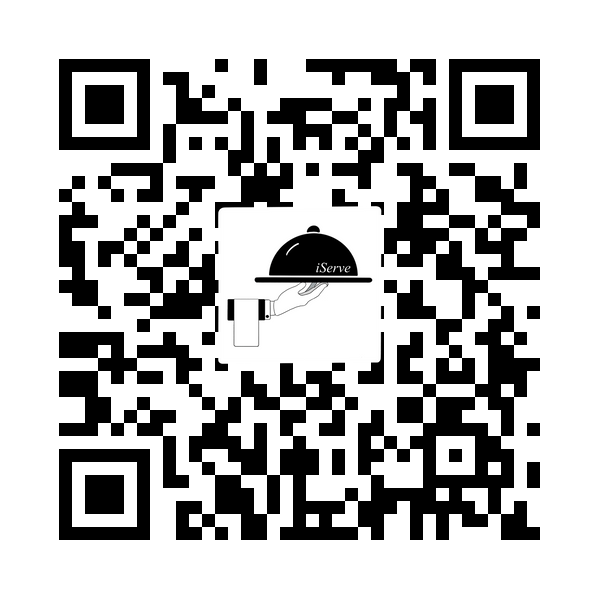
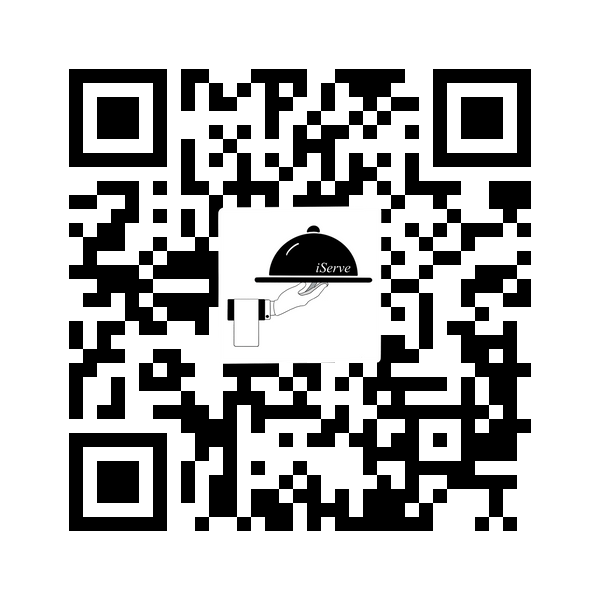
add findBillStatus method + endpoint + test + add qrcode frontend url suffix from properties

diff --git a/src/test/java/com/controller/BillControllerTests.java b/src/test/java/com/controller/BillControllerTests.java
@@ -3,13 +3,12 @@ package com.controller;
 import com.fasterxml.jackson.databind.ObjectMapper;
 import com.fasterxml.jackson.datatype.jsr310.JavaTimeModule;
 import com.model.dto.*;
-import org.json.JSONException;
+import com.model.enums.BillStatus;
 import org.json.JSONObject;
 import org.junit.jupiter.api.Test;
 import org.springframework.beans.factory.annotation.Autowired;
 import org.springframework.boot.test.context.SpringBootTest;
 import org.springframework.http.MediaType;
-import org.springframework.test.context.ActiveProfiles;
 import org.springframework.test.web.servlet.MockMvc;
 import org.springframework.test.web.servlet.MvcResult;
 import org.springframework.test.web.servlet.request.MockMvcRequestBuilders;
@@ -21,11 +20,12 @@ import java.util.List;
 
 import static org.junit.jupiter.api.Assertions.*;
 import static org.springframework.test.web.servlet.result.MockMvcResultMatchers.status;
+
 // TODO: all test should include assert arrange act as comments so its easier to understand code
 @SpringBootTest
 class BillControllerTests {
     @Autowired
-    BillController billController;
+    private BillController billController;
 
     @Test
     void contextLoads() {
@@ -56,15 +56,16 @@ class BillControllerTests {
         mapper.registerModule(new JavaTimeModule());
         BillDTO reponse = mapper.readValue(result.getResponse().getContentAsString(), BillDTO.class);
 
-        assertEquals(1,reponse.getOrderItems().get(0).getOption().size());
-        assertEquals("po de bacon po de bacon po de bacon",reponse.getOrderItems().get(0).getCommentaires());
-        assertEquals(1,reponse.getOrderItems().get(0).getOption().get(0).getCheckItemList().size());
+        assertEquals(1, reponse.getOrderItems().get(0).getOption().size());
+        assertEquals("po de bacon po de bacon po de bacon", reponse.getOrderItems().get(0).getCommentaires());
+        assertEquals(1, reponse.getOrderItems().get(0).getOption().get(0).getCheckItemList().size());
         assertTrue(reponse.getOrderItems().get(0).getOption().get(0).getCheckItemList().get(0).isActive());
         assertEquals(29.99, reponse.getPrixTotal());
         assertEquals("le steak chico", reponse.getOrderItems().get(0).getProduct().getName());
         assertEquals(1, reponse.getOrderItems().size());
         assertEquals("guest@mail.com", reponse.getOrderCustomer().getUsername());
     }
+
     @Test
     public void testCreateMakeOrderWithOrderItemCheckItemPlus() throws Exception {
         MockMvc mvc = initMockMvc();
@@ -90,15 +91,16 @@ class BillControllerTests {
         mapper.registerModule(new JavaTimeModule());
         BillDTO reponse = mapper.readValue(result.getResponse().getContentAsString(), BillDTO.class);
 
-        assertEquals(1,reponse.getOrderItems().get(0).getOption().size());
-        assertEquals("po de bacon po de bacon po de bacon",reponse.getOrderItems().get(0).getCommentaires());
-        assertEquals(1,reponse.getOrderItems().get(0).getOption().get(0).getCheckItemList().size());
+        assertEquals(1, reponse.getOrderItems().get(0).getOption().size());
+        assertEquals("po de bacon po de bacon po de bacon", reponse.getOrderItems().get(0).getCommentaires());
+        assertEquals(1, reponse.getOrderItems().get(0).getOption().get(0).getCheckItemList().size());
         assertTrue(reponse.getOrderItems().get(0).getOption().get(0).getCheckItemList().get(0).isActive());
         assertEquals(34.99, reponse.getPrixTotal());
         assertEquals("le steak chico", reponse.getOrderItems().get(0).getProduct().getName());
         assertEquals(1, reponse.getOrderItems().size());
         assertEquals("guest@mail.com", reponse.getOrderCustomer().getUsername());
     }
+
     @Test
     public void testCreateMakeOrderWithCheckItemAddOn() throws Exception {
         MockMvc mvc = initMockMvc();
@@ -124,15 +126,16 @@ class BillControllerTests {
         mapper.registerModule(new JavaTimeModule());
         BillDTO reponse = mapper.readValue(result.getResponse().getContentAsString(), BillDTO.class);
 
-        assertEquals(1,reponse.getOrderItems().get(0).getOption().size());
-        assertEquals("po de bacon po de bacon po de bacon",reponse.getOrderItems().get(0).getCommentaires());
-        assertEquals(1,reponse.getOrderItems().get(0).getOption().get(0).getCheckItemList().size());
+        assertEquals(1, reponse.getOrderItems().get(0).getOption().size());
+        assertEquals("po de bacon po de bacon po de bacon", reponse.getOrderItems().get(0).getCommentaires());
+        assertEquals(1, reponse.getOrderItems().get(0).getOption().get(0).getCheckItemList().size());
         assertTrue(reponse.getOrderItems().get(0).getOption().get(0).getCheckItemList().get(0).isActive());
         assertEquals(32.49, reponse.getPrixTotal());
         assertEquals("le steak chico", reponse.getOrderItems().get(0).getProduct().getName());
         assertEquals(1, reponse.getOrderItems().size());
         assertEquals("guest@mail.com", reponse.getOrderCustomer().getUsername());
     }
+
     @Test
     public void initVoid() throws Exception {
         MockMvc mvc = initMockMvc();
@@ -145,9 +148,10 @@ class BillControllerTests {
                 andReturn();
         ObjectMapper mapper = new ObjectMapper();
         mapper.registerModule(new JavaTimeModule());
-        BillDTO response = mapper.readValue(result.getResponse().getContentAsString(),BillDTO.class);
+        BillDTO response = mapper.readValue(result.getResponse().getContentAsString(), BillDTO.class);
         assertNotNull(response.getId());
     }
+
     @Test
     public void fetchBillByIdGetRightBill() throws Exception {
         MockMvc mvc = initMockMvc();
@@ -163,10 +167,33 @@ class BillControllerTests {
                 andReturn();
         ObjectMapper mapper = new ObjectMapper();
         mapper.registerModule(new JavaTimeModule());
-        BillDTO response = mapper.readValue(result.getResponse().getContentAsString(),BillDTO.class);
-        assertEquals(1,response.getId());
+        BillDTO response = mapper.readValue(result.getResponse().getContentAsString(), BillDTO.class);
+        assertEquals(1, response.getId());
 
     }
+
+    @Test
+    public void findBillStatus() throws Exception {
+        // Arrange
+        MockMvc mvc = initMockMvc();
+        long billId = 1L;
+
+        ObjectMapper mapper = new ObjectMapper();
+        mapper.registerModule(new JavaTimeModule());
+
+        // Act
+        MvcResult result = mvc.perform(MockMvcRequestBuilders.get("/order/billStatus/" + billId).
+                contentType(MediaType.APPLICATION_JSON).
+                accept(MediaType.APPLICATION_JSON)).
+                andExpect(status().isOk()).
+                andReturn();
+
+        String status = mapper.readValue(result.getResponse().getContentAsString(), String.class);
+
+        // Assert
+        assertEquals(BillStatus.PROGRESS.toString(), status);
+    }
+
     @Test
     public void testCreateMakeOrderAddItemToBillByGuest() throws Exception {
         MockMvc mvc = initMockMvc();
@@ -214,9 +241,9 @@ class BillControllerTests {
         objectMapper.registerModule(new JavaTimeModule());
         reponse = objectMapper.readValue(result.getResponse().getContentAsString(), BillDTO.class);
 
-        assertEquals(1,reponse.getOrderItems().get(0).getOption().size());
-        assertEquals("po de bacon po de bacon po de bacon",reponse.getOrderItems().get(0).getCommentaires());
-        assertEquals(1,reponse.getOrderItems().get(0).getOption().get(0).getCheckItemList().size());
+        assertEquals(1, reponse.getOrderItems().get(0).getOption().size());
+        assertEquals("po de bacon po de bacon po de bacon", reponse.getOrderItems().get(0).getCommentaires());
+        assertEquals(1, reponse.getOrderItems().get(0).getOption().get(0).getCheckItemList().size());
         assertTrue(reponse.getOrderItems().get(0).getOption().get(0).getCheckItemList().get(0).isActive());
         assertEquals(59.98, reponse.getPrixTotal());
         assertEquals("le steak chico", reponse.getOrderItems().get(0).getProduct().getName());
@@ -317,9 +344,9 @@ class BillControllerTests {
         objectMapper.registerModule(new JavaTimeModule());
         BillDTO reponse = objectMapper.readValue(result.getResponse().getContentAsString(), BillDTO.class);
 
-        assertEquals(1,reponse.getOrderItems().get(0).getOption().size());
-        assertEquals("po de bacon po de bacon po de bacon",reponse.getOrderItems().get(0).getCommentaires());
-        assertEquals(1,reponse.getOrderItems().get(0).getOption().get(0).getCheckItemList().size());
+        assertEquals(1, reponse.getOrderItems().get(0).getOption().size());
+        assertEquals("po de bacon po de bacon po de bacon", reponse.getOrderItems().get(0).getCommentaires());
+        assertEquals(1, reponse.getOrderItems().get(0).getOption().get(0).getCheckItemList().size());
         assertTrue(reponse.getOrderItems().get(0).getOption().get(0).getCheckItemList().get(0).isActive());
         assertEquals(29.99, reponse.getPrixTotal());
         assertEquals("le steak chico", reponse.getOrderItems().get(0).getProduct().getName());
@@ -402,6 +429,7 @@ class BillControllerTests {
         billDTO.setOrderItems(orderItemDTOList);
         return billDTO;
     }
+
     private BillDTO initBillDTOCheckItemPlusPrice() {
         BillDTO billDTO = initBillDTO();
         CheckItemDTO checkItemDTO = new CheckItemDTO();

diff --git a/src/main/java/com/service/QrCodeService.java b/src/main/java/com/service/QrCodeService.java
@@ -6,6 +6,7 @@ import com.google.zxing.client.j2se.MatrixToImageWriter;
 import com.google.zxing.common.BitMatrix;
 import com.google.zxing.qrcode.QRCodeWriter;
 import com.google.zxing.qrcode.decoder.ErrorCorrectionLevel;
+import org.springframework.beans.factory.annotation.Value;
 import org.springframework.core.io.ByteArrayResource;
 import org.springframework.core.io.Resource;
 import org.springframework.http.HttpHeaders;
@@ -33,15 +34,12 @@ public class QrCodeService {
     private final String DIR = "src/main/resources/qrfolder/";
     private final String ext = ".png";
     private final String LOGO = "src/main/resources/img/iserveqrlogo.png";
-    private final String CONTENT = "http://i-serve.ca/start?restaurantTableId=";
+    private final String suffix = "/start?restaurantTableId=";
+    @Value("${front-end.url}")
+    private String link;
     private final int WIDTH = 600;
     private final int HEIGHT = 600;
     private final float DELTA_PERCENTAGE_LIMIT = .5f;
-
-    public static void main(String[] args) {
-        QrCodeService qrCodeService = new QrCodeService();
-        qrCodeService.downloadQrCode(5);
-    }
 
     public ResponseEntity<Resource> downloadQrCode(@NotNull int tableId) {
         // Create new configuration that specifies the error correction
@@ -55,7 +53,7 @@ public class QrCodeService {
         try {
 
             // Create a qr code with the url as content and a size of WxH px
-            bitMatrix = writer.encode(CONTENT + tableId, BarcodeFormat.QR_CODE, WIDTH, HEIGHT, hints);
+            bitMatrix = writer.encode(link + suffix + tableId, BarcodeFormat.QR_CODE, WIDTH, HEIGHT, hints);
 
             // Load QR image
             BufferedImage qrImage = MatrixToImageWriter.toBufferedImage(bitMatrix);
@@ -86,13 +84,11 @@ public class QrCodeService {
             // (deltaHeight / 2). Background: Left/Right and Top/Bottom must be
             // the same space for the logo to be centered
             g.drawImage(overly, (int) Math.round(deltaWidth / 2), (int) Math.round(deltaHeight / 2), null);
-            g.setFont(new Font("Purisa", Font.PLAIN, 50));
-            g.drawString("Most relationships seem soeeeeeeeeeeeeeeeeeeeeeeeeeeeeeeeeeeeeeeee transitory", 0, 0);
 
             // Write combined image as PNG to OutputStream
             ImageIO.write(combined, "png", os);
             // Store Image
-            Files.copy(new ByteArrayInputStream(os.toByteArray()), Paths.get(DIR + "fileqrcode" + ext), StandardCopyOption.REPLACE_EXISTING);
+//            Files.copy(new ByteArrayInputStream(os.toByteArray()), Paths.get(DIR + "fileqrcode" + ext), StandardCopyOption.REPLACE_EXISTING);
 
         } catch (Exception e) {
             e.printStackTrace();

diff --git a/src/main/java/com/service/ClientService.java b/src/main/java/com/service/ClientService.java
@@ -32,8 +32,6 @@ import java.util.stream.Stream;
 public class ClientService {
     private BillRepository billRepository;
     private GuestRepository guestRepository;
-    private MenuRepository menuRepository;
-    private OrderItemRepository orderItemRepository;
     private ProductRepository productRepository;
     private RestaurantRepository restaurantRepository;
 
@@ -45,11 +43,9 @@ public class ClientService {
     private static final int DOUBLE_SCALE_PLACES = 2;
 
     @Autowired
-    public ClientService(BillRepository billRepository, GuestRepository guestRepository, MenuRepository menuRepository, OrderItemRepository orderItemRepository, ProductRepository productRepository, RestaurantRepository restaurantRepository, RestaurentTableService restaurentTableService, RestaurentTableRepository restaurentTableRepository, DTOUtils dtoUtils) {
+    public ClientService(BillRepository billRepository, GuestRepository guestRepository, ProductRepository productRepository, RestaurantRepository restaurantRepository, RestaurentTableService restaurentTableService, RestaurentTableRepository restaurentTableRepository, DTOUtils dtoUtils) {
         this.billRepository = billRepository;
         this.guestRepository = guestRepository;
-        this.menuRepository = menuRepository;
-        this.orderItemRepository = orderItemRepository;
         this.productRepository = productRepository;
         this.restaurantRepository = restaurantRepository;
         this.restaurentTableService = restaurentTableService;
@@ -63,6 +59,10 @@ public class ClientService {
         Bill bill = new Bill();
         billRepository.save(bill);
         return BillToBillDTO.instance.convert(bill);
+    }
+
+    public BillStatus findBillStatus(Long id){
+        return billRepository.findById(id).get().getBillStatus();
     }
 
     public boolean makePayment(Long billId) {

diff --git a/src/main/java/com/controller/BillController.java b/src/main/java/com/controller/BillController.java
@@ -7,6 +7,7 @@ import com.model.dto.BillDTO;
 import com.model.dto.JwtResponse;
 import com.model.dto.LoginForm;
 import com.model.dto.ProductDTO;
+import com.model.enums.BillStatus;
 import com.service.ClientService;
 import org.springframework.beans.factory.annotation.Autowired;
 import org.springframework.http.ResponseEntity;
@@ -19,7 +20,14 @@ import java.util.Map;
 public class BillController {
 
     @Autowired
-    ClientService clientService;
+    private ClientService clientService;
+
+    @GetMapping("/billStatus/{billId}")
+    public BillStatus findBillStatus(@PathVariable final Long billId){
+        System.out.println("this is my status");
+        System.out.println(clientService.findBillStatus(billId).toString());
+        return clientService.findBillStatus(billId);
+    }
 
     @PostMapping("/makeOrder")
     public ResponseEntity<BillDTO> makeOrder(@RequestBody Map<String, String> json) throws JsonProcessingException {

diff --git a/src/main/java/com/event/DataLoader.java b/src/main/java/com/event/DataLoader.java
@@ -85,6 +85,7 @@ public class DataLoader implements CommandLineRunner {
 
         restaurantRepository.save(restaurant);
         Bill bill = new Bill();
+        bill.setBillStatus(BillStatus.PROGRESS);
         bill.setOrderItems(new ArrayList<>());
         OrderItem orderItem;
         Menu menuDiner = createMenu("Diner", MenuType.FOOD);
